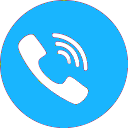
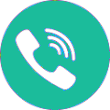
mise a jour du  footer et creation page plan du site et mentions legales

diff --git a/css/footer.css b/css/footer.css
@@ -1,10 +1,11 @@
 .footer-main
 {
-  background-color: #2C3E50;
+  background-color: #d2d4dc;
   height:125px;
   padding:25px;
   font-family: arial;
-	font-weight: 800;
+  color: black
+
 }
 
 
@@ -13,22 +14,35 @@
   height:100px;
 }
 
-.footer-section > p
-{
- color: #1BBC9B;
-}
+.middle
 
-.left
 {
-	text-align:left;
-color: #1BBC9B;
+ color: black;
+ text-align: left;
+  padding-bottom:25px;
+  height: auto;
+  font-family: arial;
 }
 
 
 .right
 {
 	text-align:right;
-}
-.bigo {
+	color: black;
 
 }
+
+
+}
+.footerdroit {
+	vertical-align: right;
+    text-decoration: none; 
+    font-family: arial;
+}
+
+
+.liens {
+	text-decoration: none !important;
+	color: grey;
+	font-family: arial; 
+	 }

diff --git a/footer.php b/footer.php
@@ -8,21 +8,32 @@
 	</head>
 	
 	<body>
-		<div class="col-sm-12 col-md-12 col-lg-12 footer-main">
-			<div class="col-sm-4 col-md-4 col-lg-4 footer-section left">
+			<div class="row">
+		<div class="footer-main">
+			<div class=" col-xs-3 col-sm-3 col-md-3 col-lg-3 footer-section left">
 				<p>41 Rue Robert Poisson </p>
 				<p>28130 SAINT PIAT </p>
 				<p>PARIS : Place d'Italie, Nationale</p>
 			</div>	
-			<div class="col-sm-4 col-md-4 col-lg-4 footer-section left">
-				<p>06 87 68 13 99  </p>
-				<p>annie.bearez@wanadoo.fr</p>
+			<div class="col-xs-4 col-sm-4col-md-4 col-lg-4 footer-section middle">
+				
+					<img src= "images/telephone.png" alt="" title="" class="col-xs-2 col-sm-2 col-md-2 col-lg-2"> 
+					<p class="col-sm-4 col-md-4 col-lg-4">06 87 68 13 99  </p>
+				
+				
+					<img src= "images/mail.png" alt="" title="" class=" col-xs-2 col-sm-2 col-md-2 col-lg-2">
+					<p class="col-sm-4 col-md-4 col-lg-4">annie.bearez@wanadoo.fr</p>
+				
 			</div>
-			<div class="col-sm-4 col-md-4 col-lg-4 footer-section right">
-				<p>Plan du site</p>
-                <p> Mentions legales &copy;</p> 
+			<div class=" col-md-4 col-lg-4 footer-section right">
+				<div class="footerdroit">
+				
+				<p> <a class="liens" href="plandusite.php"> Plan du site </a> </p>
+                <p> <a class="liens" href="mentionslegales.php"> Mentions legales</a> &copy;</p> 
 				<p>SIRET : 385 293 758 00038</p>
+				</div>
 			</div>
 		</div>
+			</div>									
 	</body>
-</html>
+</html>   

diff --git a/mentionslegales.php b/mentionslegales.php
@@ -1,0 +1,11 @@
+<!DOCTYPE html>
+<html>
+    <head>
+        <meta charset="utf-8" />
+        <title>Mentions Legales</title>
+    </head>
+
+    <body>
+    
+    </body>
+</html>

diff --git a/plandusite.php b/plandusite.php
@@ -1,0 +1,11 @@
+<!DOCTYPE html>
+<html>
+    <head>
+        <meta charset="utf-8" />
+        <title>Plan du site</title>
+    </head>
+
+    <body>
+    
+    </body>
+</html>
